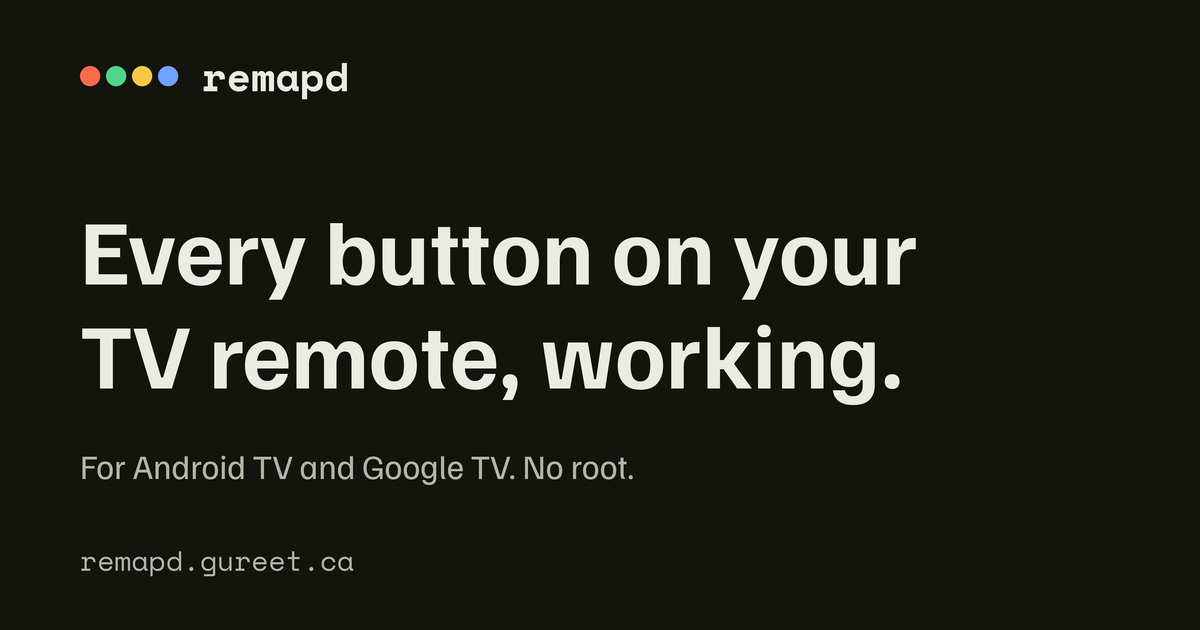
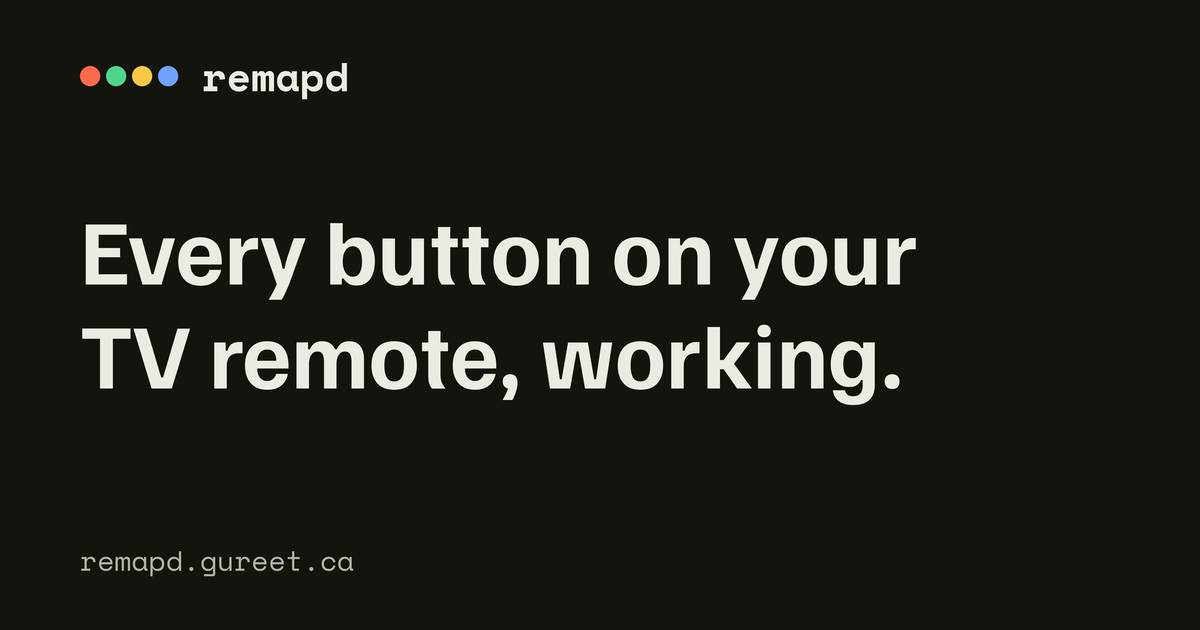
Drop the tagline from the share image too
og.png said "For Android TV and Google TV. No root." under the
headline, like the line just removed from the page. The script drew it,
so it's gone from there, and og.png is redrawn. Unchanged, the script
redrew the old image exactly, so the line is the only difference.

Changed region(s): [[0.0617, 0.7238, 0.5242, 0.7841]]

diff --git a/tools/make_site_images.py b/tools/make_site_images.py
@@ -73,10 +73,8 @@ def share_image(tmp):
     mono = ImageFont.truetype(ttf_from_woff2("space-mono-latin-700-normal.woff2", tmp), 40 * s)
     mono_small = ImageFont.truetype(ttf_from_woff2("space-mono-latin-400-normal.woff2", tmp), 28 * s)
     display = ImageFont.truetype(ttf_from_woff2("familjen-grotesk-latin-wght-normal.woff2", tmp), 92 * s)
-    sub = ImageFont.truetype(ttf_from_woff2("familjen-grotesk-latin-wght-normal.woff2", tmp), 34 * s)
-    try:  # the Familjen file is a variable font: ask for bold and regular
+    try:  # the Familjen file is a variable font: ask for bold
         display.set_variation_by_axes([700])
-        sub.set_variation_by_axes([400])
     except Exception:
         pass
 
@@ -90,7 +88,6 @@ def share_image(tmp):
     # headline
     d.text((left, 190 * s), "Every button on your", font=display, fill=INK, anchor="la")
     d.text((left, 190 * s + 104 * s), "TV remote, working.", font=display, fill=INK, anchor="la")
-    d.text((left, 190 * s + 104 * s + 150 * s), "For Android TV and Google TV. No root.", font=sub, fill=MUTED, anchor="la")
 
     d.text((left, 560 * s), "remapd.gureet.ca", font=mono_small, fill=MUTED, anchor="lm")
     return img.resize((w, h), Image.LANCZOS)
